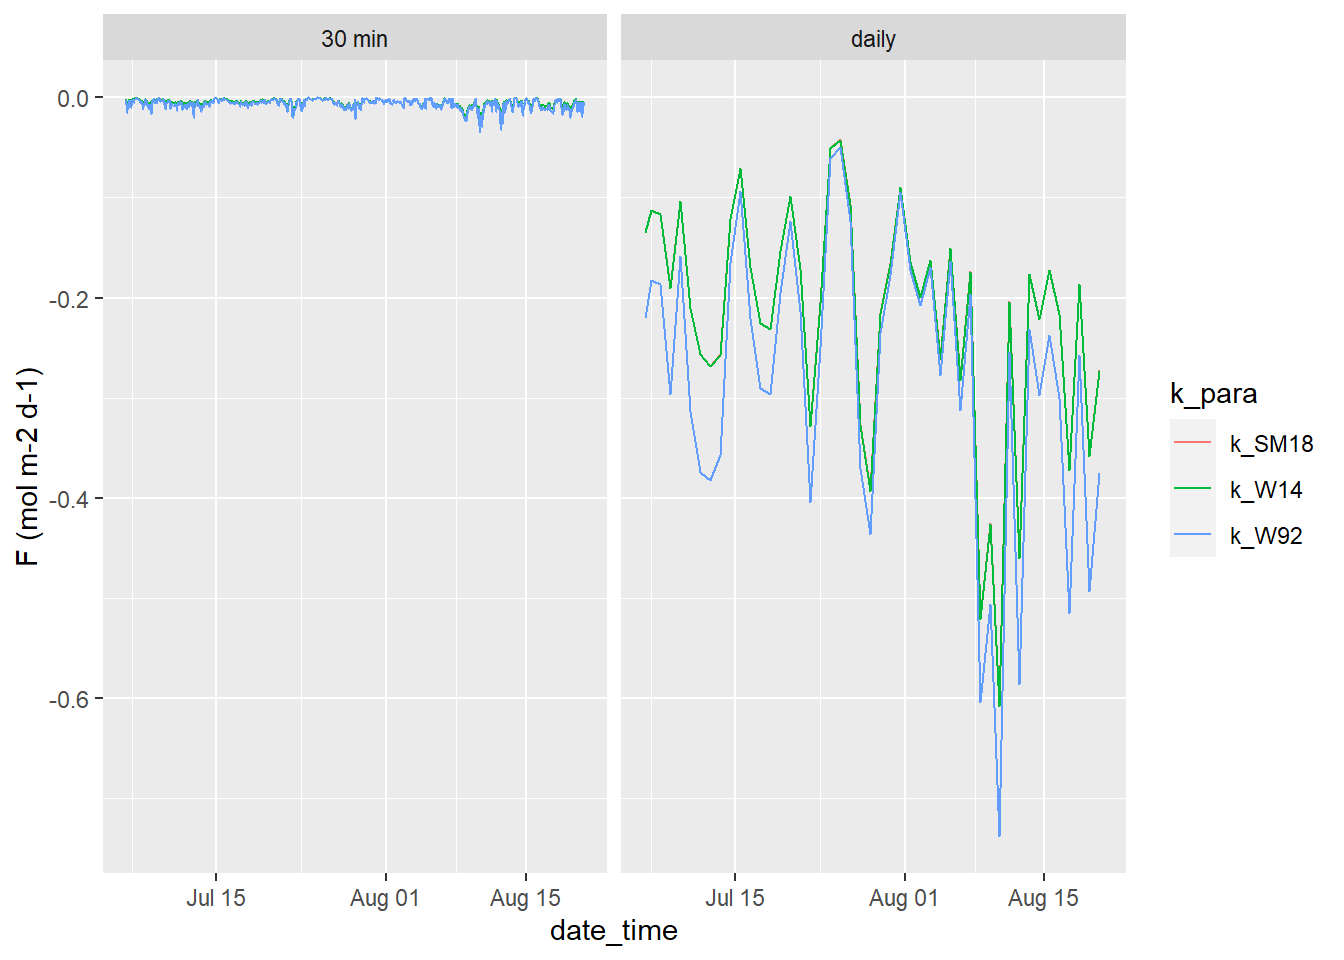
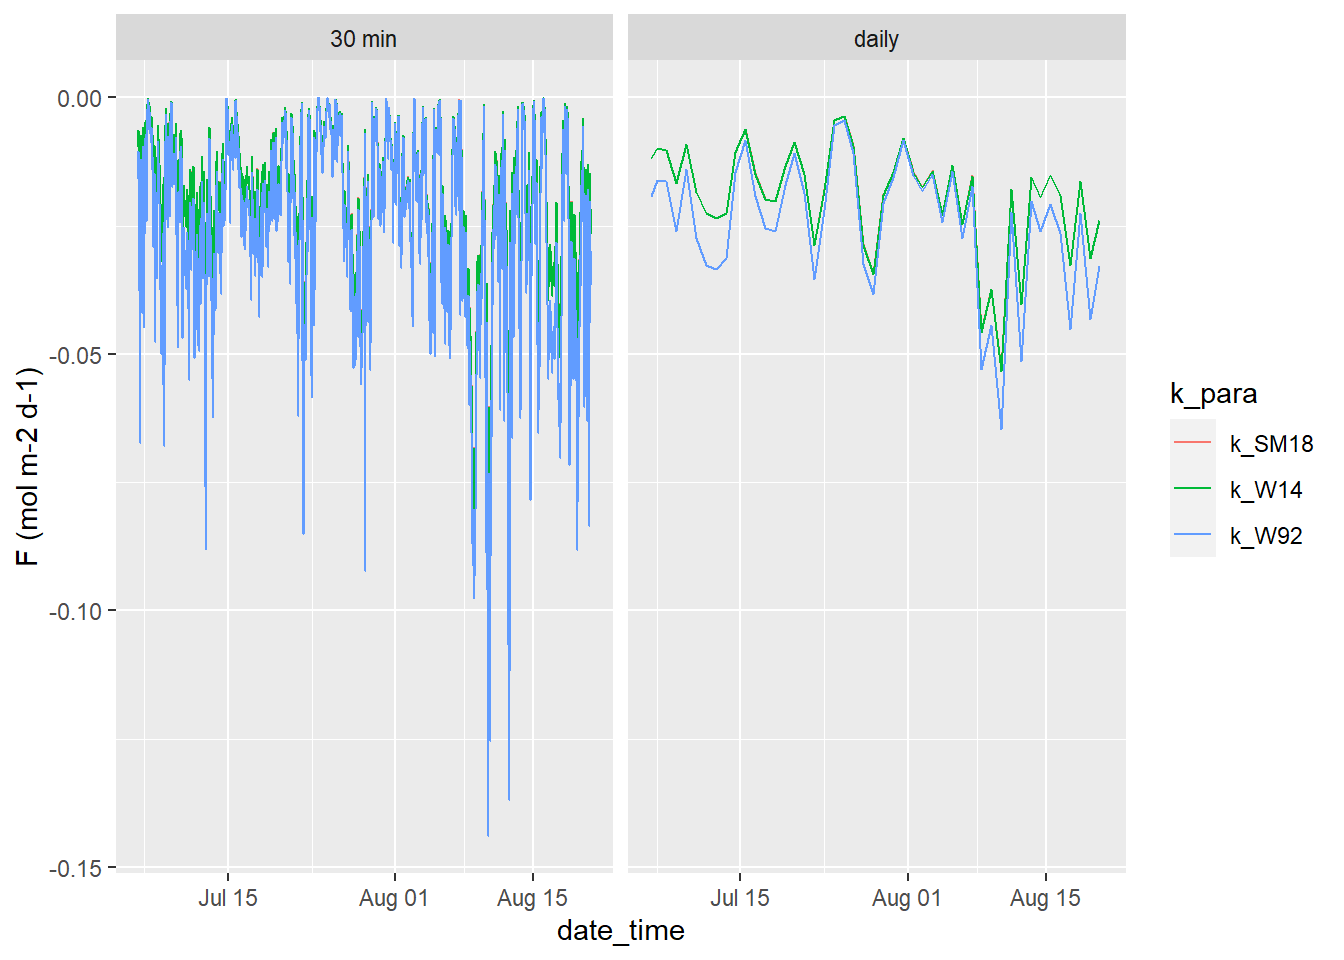
Build site.

diff --git a/docs/gas_exchange.html b/docs/gas_exchange.html
@@ -539,10 +539,10 @@ This reproducible <a href="http://rmarkdown.rstudio.com">R Markdown</a> analysis
 <div class="panel panel-default">
 <div class="panel-heading">
 <p class="panel-title">
-<a data-toggle="collapse" data-parent="#workflowr-checks" href="#strongRepositoryversionstrongahrefhttpsgithubcomjensdanielmuellerBloomSailtree7c1033668ce8f47beb2e66f616b27e27b660a9d5targetblank7c10336a"> <span class="glyphicon glyphicon-ok text-success" aria-hidden="true"></span> <strong>Repository version:</strong> <a href="https://github.com/jens-daniel-mueller/BloomSail/tree/7c1033668ce8f47beb2e66f616b27e27b660a9d5" target="_blank">7c10336</a> </a>
+<a data-toggle="collapse" data-parent="#workflowr-checks" href="#strongRepositoryversionstrongahrefhttpsgithubcomjensdanielmuellerBloomSailtree859c4a4613eb27eb92eac182cf99feaf23395f66targetblank859c4a4a"> <span class="glyphicon glyphicon-ok text-success" aria-hidden="true"></span> <strong>Repository version:</strong> <a href="https://github.com/jens-daniel-mueller/BloomSail/tree/859c4a4613eb27eb92eac182cf99feaf23395f66" target="_blank">859c4a4</a> </a>
 </p>
 </div>
[2 lines of base64/hex data omitted]
 <div class="panel-body">
 <p>
 Great! You are using Git for version control. Tracking code development and connecting the code version to the results is critical for reproducibility. The version displayed above was the version of the Git repository at the time these results were generated. <br><br> Note that you need to be careful to ensure that all relevant files for the analysis have been committed to Git prior to generating the results (you can use <code>wflow_publish</code> or <code>wflow_git_commit</code>). workflowr only checks the R Markdown file, but you know if there are other scripts or data files that it depends on. Below is the status of the Git repository when the results were generated:
@@ -686,7 +686,7 @@ df_long %&gt;%
 <li><p>dCO<sub>2</sub>: µmol kg-1</p></li>
 <li><p>wind speed U: m s-1</p></li>
 <li>gas transfer velocities k: cm hr-1 (= 60<em>60</em>100 m s-1)</li>
-<li><p>air sea CO<sub>2</sub> flux F: mol m–2 yr–1 (= 365 * mol m–2 d–1)</p></li>
+<li><p>air sea CO<sub>2</sub> flux F: mol m–2 d–1</p></li>
 <li><p>coeff for k calculation (eg 0.251 in W14): cm hr-1 (m s-1)-2</p></li>
 </ul>
 <p>W14_simplyfied: F = 7.7 * 10–4 * U2 * dpCO2</p>
@@ -708,25 +708,25 @@ Sc_W14(20)</code></pre>
 # calculate flux F [mol m–2 d–1]
 
 df &lt;- df %&gt;% 
-  mutate(flux = k_value*dCO2/365) 
-
-# scale flux to time interval
-
-df &lt;- df %&gt;% 
-  mutate(scale = if_else(freq == &quot;daily&quot;, 1, 24*2)) %&gt;% 
-  mutate(flux = flux / scale) %&gt;% 
-  group_by(freq, k_para) %&gt;% 
-  arrange(date_time) %&gt;% 
-  mutate(flux_cum = cumsum(flux)) %&gt;% 
-  ungroup()</code></pre>
+  mutate(flux_daily = k_value*dCO2*1e-5*24) </code></pre>
 <p>Timeseries</p>
 <pre class="r"><code>df %&gt;% 
-  ggplot(aes(date_time, flux, col=k_para))+
+  ggplot(aes(date_time, flux_daily, col=k_para))+
   geom_line()+
   labs(y=&quot;F (mol m-2 d-1)&quot;)+
   facet_wrap(~freq)</code></pre>
 <p><img src="figure/gas_exchange.Rmd/plot_daily_fluxes-1.png" width="672" style="display: block; margin: auto;" /></p>
-<pre class="r"><code>df %&gt;% 
+<pre class="r"><code># scale flux to time interval
+
+df &lt;- df %&gt;% 
+  mutate(scale = if_else(freq == &quot;daily&quot;, 1, 24*2)) %&gt;% 
+  mutate(flux_scale = flux_daily / scale) %&gt;% 
+  group_by(freq, k_para) %&gt;% 
+  arrange(date_time) %&gt;% 
+  mutate(flux_cum = cumsum(flux_scale)) %&gt;% 
+  ungroup()
+
+df %&gt;% 
   ggplot(aes(date_time, flux_cum, col=k_para))+
   geom_line()+
   labs(y=&quot;F (mol m-2)&quot;)+

diff --git a/docs/CT_dynamics.html b/docs/CT_dynamics.html
@@ -539,10 +539,10 @@ This reproducible <a href="http://rmarkdown.rstudio.com">R Markdown</a> analysis
 <div class="panel panel-default">
 <div class="panel-heading">
 <p class="panel-title">
-<a data-toggle="collapse" data-parent="#workflowr-checks" href="#strongRepositoryversionstrongahrefhttpsgithubcomjensdanielmuellerBloomSailtree7be14e4602989f5ef3a242398c3095758f7c5986targetblank7be14e4a"> <span class="glyphicon glyphicon-ok text-success" aria-hidden="true"></span> <strong>Repository version:</strong> <a href="https://github.com/jens-daniel-mueller/BloomSail/tree/7be14e4602989f5ef3a242398c3095758f7c5986" target="_blank">7be14e4</a> </a>
+<a data-toggle="collapse" data-parent="#workflowr-checks" href="#strongRepositoryversionstrongahrefhttpsgithubcomjensdanielmuellerBloomSailtree859c4a4613eb27eb92eac182cf99feaf23395f66targetblank859c4a4a"> <span class="glyphicon glyphicon-ok text-success" aria-hidden="true"></span> <strong>Repository version:</strong> <a href="https://github.com/jens-daniel-mueller/BloomSail/tree/859c4a4613eb27eb92eac182cf99feaf23395f66" target="_blank">859c4a4</a> </a>
 </p>
 </div>
[2 lines of base64/hex data omitted]
 <div class="panel-body">
 <p>
 Great! You are using Git for version control. Tracking code development and connecting the code version to the results is critical for reproducibility. The version displayed above was the version of the Git repository at the time these results were generated. <br><br> Note that you need to be careful to ensure that all relevant files for the analysis have been committed to Git prior to generating the results (you can use <code>wflow_publish</code> or <code>wflow_git_commit</code>). workflowr only checks the R Markdown file, but you know if there are other scripts or data files that it depends on. Below is the status of the Git repository when the results were generated:
@@ -551,6 +551,7 @@ Great! You are using Git for version control. Tracking code development and conn
 Ignored files:
     Ignored:    .Rhistory
     Ignored:    .Rproj.user/
+    Ignored:    analysis/figure/
     Ignored:    data/Maps/
     Ignored:    data/Ostergarnsholm/
     Ignored:    data/TinaV/
@@ -810,9 +811,9 @@ CO2_ts %&gt;%
   facet_grid(parameter~., scales = &quot;free_y&quot;)+
   labs(x=&quot;Mean transect date&quot;)</code></pre>
 <div class="figure" style="text-align: center">
-<img src="figure/CT_dynamics.Rmd/plot_bottle_CO2_surface_timeseries-1.png" alt="Time series of bottle data. Shown are mean values of samples collected at water depths &lt; 10m (usually at 0 and 5 m)." width="672" />
+<img src="figure/CT_dynamics.Rmd/plot_bottle_CO2_surface_timeseries-1.png" alt="Time series of bottle data. Shown are mean values of samples collected at water depths &lt; 10m (usually collected at 0 and 5 m)." width="672" />
 <p class="caption">
-Time series of bottle data. Shown are mean values of samples collected at water depths &lt; 10m (usually at 0 and 5 m).
+Time series of bottle data. Shown are mean values of samples collected at water depths &lt; 10m (usually collected at 0 and 5 m).
 </p>
 </div>
 <pre class="r"><code>AT_mean &lt;- CO2_ts %&gt;% 
@@ -1181,6 +1182,7 @@ p_iNCPcum &lt;- NCP %&gt;%
 (p_iNCP / p_iNCPcum)+
   plot_layout(guides = &#39;collect&#39;)</code></pre>
 <p><img src="figure/CT_dynamics.Rmd/plot_integrated_NCP_timeseries-1.png" width="672" style="display: block; margin: auto;" /></p>
+<pre class="r"><code>rm(p_iNCP, p_iNCPcum)</code></pre>
 <pre class="r"><code>mean_profiles %&gt;% 
   ggplot(aes(date_time, dep, col=CT))+
   geom_point()+
